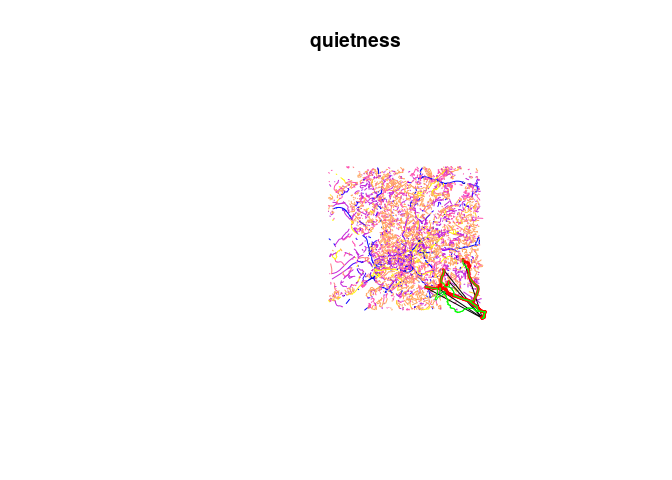
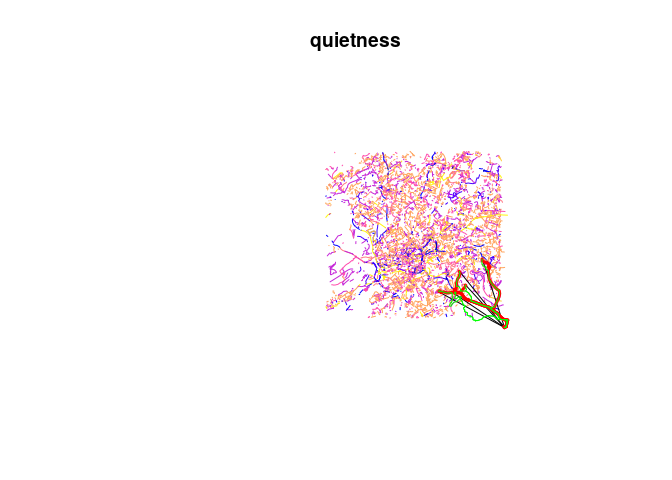
Update model data processing.
Can you reproduce this @mem88 ?

Changed region(s): [[0.4688, 0.3125, 0.7812, 0.6875]]

diff --git a/model-uptake.md b/model-uptake.md
@@ -92,10 +92,96 @@ st_geometry(rf) <- NULL
 
 rq = transmute(lfq$rq, dist_quiet = length / 1000, time_quiet = time, busyness_quiet = busyness, av_incline_quiet = av_incline) 
 st_geometry(rq) <- NULL
-lfq$l = bind_cols(lfq$l, rf, rq)
-l = lfq$l
+l = bind_cols(lfq$l, rf, rq)
 st_geometry(l) = NULL
 ```
+
+We can also join segment-level data to routes. This is done for one route as follows:
+
+``` r
+route_single = lfq$rf[1,]
+ways_touching = ways[route_single,]
+```
+
+    ## although coordinates are longitude/latitude, it is assumed that they are planar
+
+We can also join all lines that overlap (rather than just touch) the route, but this introduces a buffer whose width must be set and removes some routes that may be relevant to the junctions:
+
+``` r
+sel_overlap = st_relate(x = ways, route_single) # fails to find centrelines
+```
+
+    ## although coordinates are longitude/latitude, it is assumed that they are planar
+
+``` r
+summary(sel_overlap)
+```
+
+    ##          V1       
+    ##  0F1FF0102:   50  
+    ##  FF1FF0102:28782
+
+``` r
+route_sp = as(object = route_single, Class = "Spatial")
+route_buff_sp = stplanr::buff_geo(route_sp, 100)
+```
+
+    ## Transforming to CRS +proj=aeqd +lat_0=51.43314781 +lon_0=-2.51576802 +x_0=0 +y_0=0 +ellps=WGS84
+
+    ## Running function on a temporary projected version of the Spatial object using the CRS: +proj=aeqd +lat_0=51.43314781 +lon_0=-2.51576802 +x_0=0 +y_0=0 +ellps=WGS84
+
+``` r
+route_buff = as(object = route_buff_sp, "sf")
+sel_overlap = st_within(ways_touching, route_buff, sparse = FALSE)[,1]
+```
+
+    ## although coordinates are longitude/latitude, it is assumed that they are planar
+
+``` r
+ways_overlap = ways_touching[sel_overlap,]
+
+plot(route_single, lwd = 50)
+# plot(ways, add = T)
+plot(ways_overlap, add = T, lwd = 30, col = "white")
+plot(ways_touching, add = T, lwd = 5)
+plot(route_buff, add = T)
+```
+
+![](model-uptake_files/figure-markdown_github/unnamed-chunk-13-1.png)
+
+Summary statistics can be pulled from the the results as follows:
+
+``` r
+mean(ways_touching$quietness, na.rm = T)
+```
+
+    ## [1] 67.45652
+
+We can run this for all routes as follows:
+
+``` r
+for(i in 1:nrow(l))
+  l$quietness_ways[i] = mean(ways[lfq$rf[i,],]$quietness, na.rm = T) ; print(i)
+
+busyness_by_length = l$busyness_fast / l$dist /1000
+summary(quietness_by_length)
+saveRDS(l, "l_cyipt.Rds")
+```
+
+The results show the quietness score is related to the 'busynance' of the route provided by CycleStreets.net:
+
+``` r
+busyness_by_length = l$busyness_fast / l$dist /1000
+plot(busyness_by_length, l$quietness_ways)
+```
+
+![](model-uptake_files/figure-markdown_github/unnamed-chunk-18-1.png)
+
+``` r
+cor(busyness_by_length, l$quietness_ways, use = "complete.obs")
+```
+
+    ## [1] -0.6282964
 
 Modelling raw cyclist counts
 ----------------------------
@@ -154,7 +240,7 @@ names(l)
     ## [87] "time_fast"                "busyness_fast"           
     ## [89] "av_incline_fast"          "dist_quiet"              
     ## [91] "time_quiet"               "busyness_quiet"          
-    ## [93] "av_incline_quiet"
+    ## [93] "av_incline_quiet"         "quietness_ways"
 
 The simplest model of cycling update under this framework would be to estimate the number of cyclists as a linear function of total number travelling:
 
@@ -264,7 +350,7 @@ points(l$all, m1$fitted.values, col = "red")
 points(l$all, m3$fitted.values, col = "grey")
 ```
 
-![](model-uptake_files/figure-markdown_github/unnamed-chunk-16-1.png)
+![](model-uptake_files/figure-markdown_github/unnamed-chunk-23-1.png)
 
 There are various issues here. We need to model cycling uptake but that is always a function of `all`. We must add additional variables such as hilliness. Further, we must use non-linear function of some predictor variables such as distance.
 
@@ -350,7 +436,7 @@ plot(l$all, l$bicycle)
 points(l$all, m4_fitted, col = "red")
 ```
 
-![](model-uptake_files/figure-markdown_github/unnamed-chunk-18-1.png)
+![](model-uptake_files/figure-markdown_github/unnamed-chunk-25-1.png)
 
 ``` r
 (rmse4 = sqrt(c(crossprod(m4_fitted - l_sub$bicycle)) / nrow(l)))
@@ -365,7 +451,7 @@ importance_m4 = xgb.importance(model = m4, feature_names = names(l_sub)[-1])
 xgb.plot.importance(importance_m4)
 ```
 
-![](model-uptake_files/figure-markdown_github/unnamed-chunk-19-1.png)
+![](model-uptake_files/figure-markdown_github/unnamed-chunk-26-1.png)
 
 A full model
 ------------
@@ -394,7 +480,7 @@ importance_m5 = xgb.importance(model = m5, feature_names = names(l_full)[-1])
 xgb.plot.importance(importance_m5)
 ```
 
-![](model-uptake_files/figure-markdown_github/unnamed-chunk-20-1.png)
+![](model-uptake_files/figure-markdown_github/unnamed-chunk-27-1.png)
 
 ``` r
 m5_fitted = predict(m5, as.matrix(l_full[-1]))
@@ -431,7 +517,7 @@ importance_m6 = xgb.importance(model = m6, feature_names = names(l_full)[-c(1, 2
 xgb.plot.importance(importance_m6)
 ```
 
-![](model-uptake_files/figure-markdown_github/unnamed-chunk-21-1.png)
+![](model-uptake_files/figure-markdown_github/unnamed-chunk-28-1.png)
 
 ``` r
 m6_fitted = predict(m6, as.matrix(l_full[-c(1, 2)]))
@@ -468,7 +554,7 @@ importance_m7 = xgb.importance(model = m7, feature_names = names(l_full)[-c(1, 2
 xgb.plot.importance(importance_m7)
 ```
 
-![](model-uptake_files/figure-markdown_github/unnamed-chunk-22-1.png)
+![](model-uptake_files/figure-markdown_github/unnamed-chunk-29-1.png)
 
 ``` r
 m7_fitted = predict(m7, as.matrix(l_full[-c(1, 2)]))
